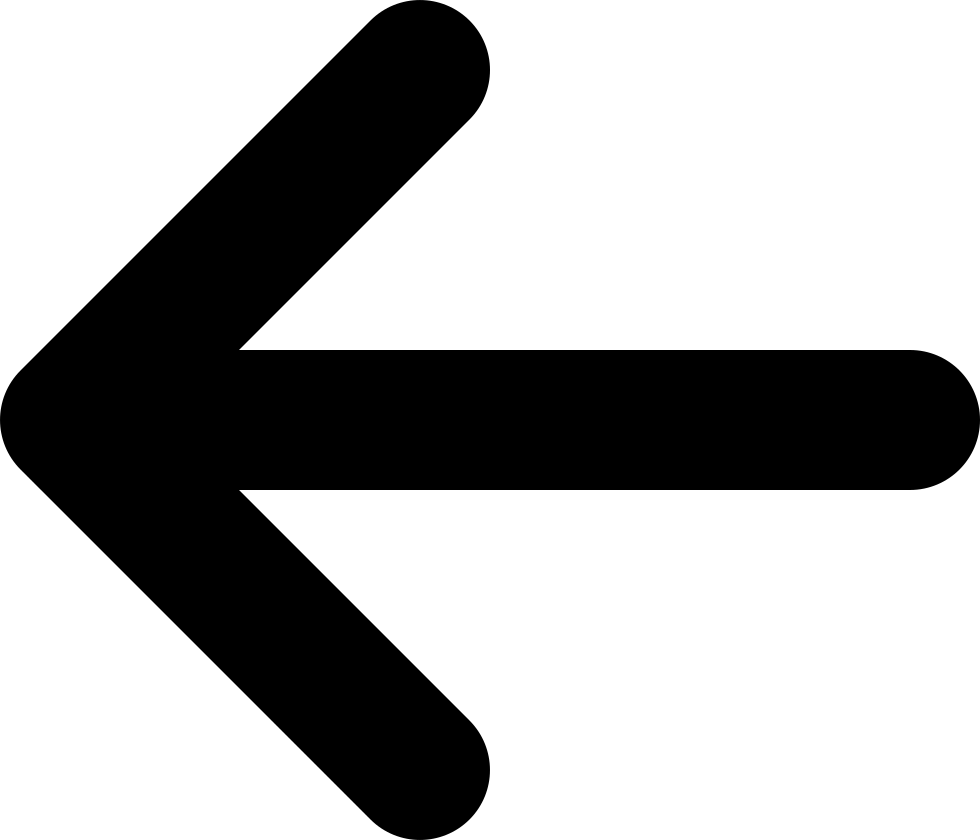
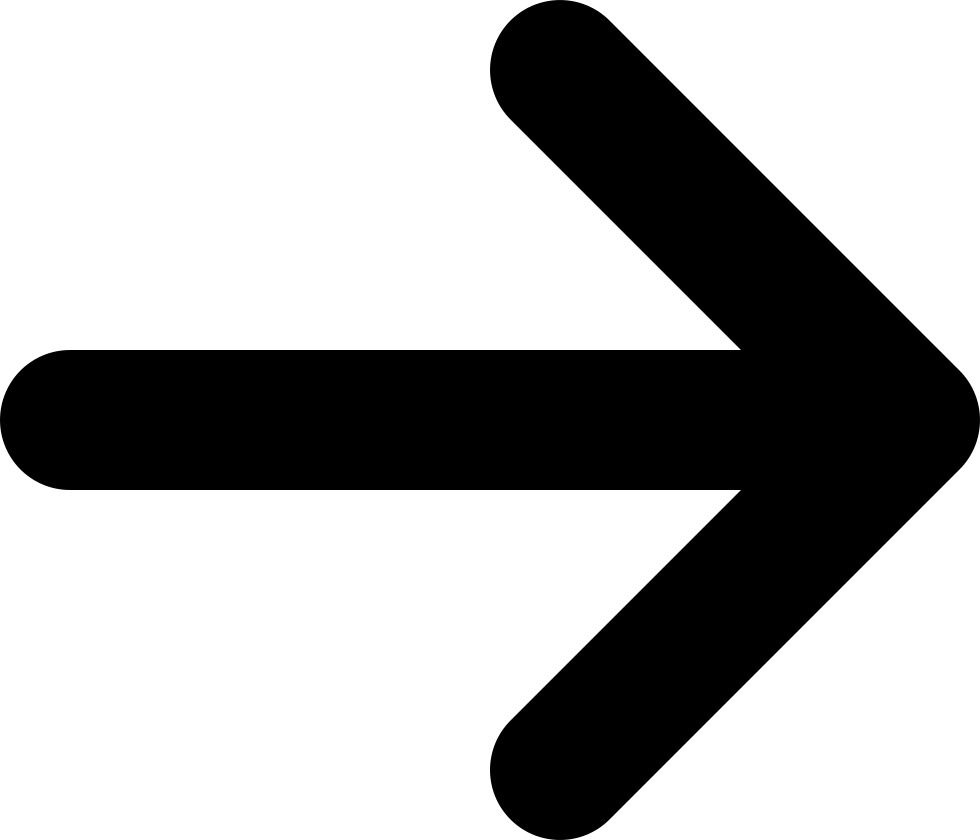
"Updated right-arrow.png image and adjusted button sizes in app.css"

diff --git a/src/app.css b/src/app.css
@@ -116,6 +116,6 @@ button:focus-visible {
 
 #decrement-button,
 #increment-button {
-  width: 100px;
-  height: 100px;
+  width: 50px;
+  height: 50px;
 }
